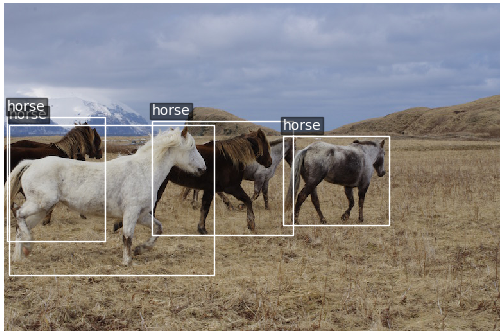
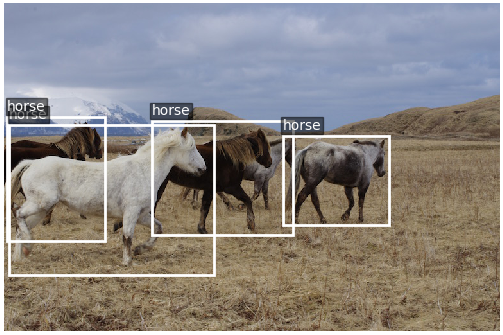
Clean up

Changed region(s): [[0.0, 0.3284, 0.7753, 0.8358]]

diff --git a/models.py b/models.py
@@ -11,23 +11,77 @@ from PIL import Image
 from utils import *
 
 def parse_config(path):
-    """Parses the yolo-v3 layer configuration file and returns block definitions"""
+    """Parses the yolo-v3 layer configuration file and returns module definitions"""
     file = open(path, 'r')
     lines = file.read().split('\n')
     lines = [x for x in lines if x and not x.startswith('#')]
     lines = [x.rstrip().lstrip() for x in lines] # get rid of fringe whitespaces
-    blocks = []
+    module_defs = []
     for line in lines:
         if line.startswith('['):        # This marks the start of a new block
-            blocks.append({})           # re-init the block
-            blocks[-1]['type'] = line[1:-1].rstrip()
-            if blocks[-1]['type'] == 'convolutional':
-                blocks[-1]['batch_normalize'] = 0
+            module_defs.append({})           # re-init the block
+            module_defs[-1]['type'] = line[1:-1].rstrip()
+            if module_defs[-1]['type'] == 'convolutional':
+                module_defs[-1]['batch_normalize'] = 0
         else:
             key, value = line.split("=")
-            blocks[-1][key.rstrip()] = value.lstrip()
+            module_defs[-1][key.rstrip()] = value.lstrip()
 
-    return blocks
+    return module_defs
+
+def create_modules(module_defs):
+    """
+    Constructs module list of layer blocks from module configuration in module_defs
+    """
+    hyperparams = module_defs.pop(0)
+    output_filters = [int(hyperparams['channels'])]
+    module_list = nn.ModuleList()
+    for i, module_def in enumerate(module_defs):
+        modules = nn.Sequential()
+
+        if module_def['type'] == 'convolutional':
+            bn = int(module_def['batch_normalize'])
+            filters = int(module_def['filters'])
+            kernel_size = int(module_def['size'])
+            pad = (kernel_size - 1) // 2 if int(module_def['pad']) else 0
+            modules.add_module('conv_%d' % i, nn.Conv2d(in_channels=output_filters[-1],
+                                                        out_channels=filters,
+                                                        kernel_size=kernel_size,
+                                                        stride=int(module_def['stride']),
+                                                        padding=pad,
+                                                        bias=not bn))
+            if bn:
+                modules.add_module('batch_norm_%d' % i, nn.BatchNorm2d(filters))
+            if module_def['activation'] == 'leaky':
+                modules.add_module('leaky_%d' % i, nn.LeakyReLU(0.1, inplace=True))
+
+        elif module_def['type'] == 'upsample':
+            upsample = nn.Upsample(scale_factor=int(module_def['stride']), mode='bilinear')
+            modules.add_module('upsample_%d' % i, upsample)
+
+        elif module_def['type'] == 'route':
+            layers = [int(x) for x in module_def["layers"].split(',')]
+            filters = sum([output_filters[layer_i] for layer_i in layers])
+            modules.add_module('route_%d' % i, EmptyLayer())
+
+        elif module_def['type'] == 'shortcut':
+            filters = output_filters[int(module_def['from'])]
+            modules.add_module("shortcut_%d" % i, EmptyLayer())
+
+        elif module_def["type"] == "yolo":
+            anchor_idxs = [int(x) for x in module_def["mask"].split(",")]
+            # Extract anchors
+            anchors = [int(x) for x in module_def["anchors"].split(",")]
+            anchors = [(anchors[i], anchors[i+1]) for i in range(0, len(anchors),2)]
+            anchors = [anchors[i] for i in anchor_idxs]
+            # Define detection layer
+            yolo_layer = YOLOLayer(anchors, int(module_def['classes']), int(hyperparams['height']))
+            modules.add_module('yolo_%d' % i, yolo_layer)
+        # Register module list and number of output filters
+        module_list.append(modules)
+        output_filters.append(filters)
+
+    return hyperparams, module_list
 
 class EmptyLayer(nn.Module):
     """Placeholder for 'route' and 'shortcut' layers"""
@@ -44,136 +98,79 @@ class YOLOLayer(nn.Module):
         self.bbox_attrs = 5 + num_classes
         self.image_dim = image_dim
 
-    def forward(self, x, cuda=True):
+    def forward(self, x):
         batch_size = x.size(0)
-        x_dim = x.size(2)
-        stride =  self.image_dim // x_dim
+        grid_dim = x.size(2)
+        stride =  self.image_dim / grid_dim
 
-        prediction = x.view(batch_size, self.bbox_attrs * self.num_anchors, x_dim * x_dim)
+        prediction = x.view(batch_size, self.bbox_attrs * self.num_anchors, grid_dim * grid_dim)
         prediction = prediction.transpose(1, 2).contiguous()
-        prediction = prediction.view(batch_size, x_dim * x_dim * self.num_anchors, self.bbox_attrs)
+        prediction = prediction.view(batch_size, grid_dim * grid_dim * self.num_anchors, self.bbox_attrs)
 
         # Sigmoid
         prediction[:, :, 0] = torch.sigmoid(prediction[:, :, 0])    # Center X
         prediction[:, :, 1] = torch.sigmoid(prediction[:, :, 1])    # Center Y
         prediction[:, :, 4] = torch.sigmoid(prediction[:, :, 4])    # Object conf.
 
-        grid = np.arange(x_dim)
+        grid = np.arange(grid_dim)
         a, b = np.meshgrid(grid, grid)
 
         x_offset = torch.FloatTensor(a).view(-1, 1)
         y_offset = torch.FloatTensor(b).view(-1, 1)
 
-        if cuda:
+        if prediction.is_cuda:
             x_offset = x_offset.cuda()
             y_offset = y_offset.cuda()
 
-        x_y_offset = torch.cat((x_offset, y_offset), 1).repeat(1, self.num_anchors).view(-1, 2).unsqueeze(0)
         # Add offsets to center x and center y
+        x_y_offset = torch.cat((x_offset, y_offset), 1).repeat(1, self.num_anchors).view(-1, 2).unsqueeze(0)
         prediction[:, :, :2] += x_y_offset
 
         anchors = torch.FloatTensor([(a_h / stride, a_w / stride) for a_h, a_w in self.anchors])
-        if cuda:
+
+        if prediction.is_cuda:
             anchors = anchors.cuda()
 
         # Scale width and height by anchors
-        anchors = anchors.repeat(x_dim * x_dim, 1).unsqueeze(0)
+        anchors = anchors.repeat(grid_dim * grid_dim, 1).unsqueeze(0)
         prediction[:, :, 2:4] = torch.exp(prediction[:, :, 2:4]) * anchors
-        # Apply sigmoid to class scores
-        prediction[:, :, 5:self.bbox_attrs] = torch.sigmoid((prediction[:, :, 5:self.bbox_attrs]))
         # Rescale output dimension to image size
         prediction[:, :, :4] *= stride
+        # Apply sigmoid to class scores
+        prediction[:, :, 5:self.bbox_attrs] = torch.sigmoid((prediction[:, :, 5:self.bbox_attrs]))
 
         return prediction
 
-def create_modules(blocks):
-    """
-    Constructs module list of layer blocks from block configuration in 'blocks'
-    """
-    hyperparams = blocks.pop(0)
-    output_filters = [int(hyperparams['channels'])]
-    module_list = nn.ModuleList()
-    for i, block in enumerate(blocks):
-        modules = nn.Sequential()
-
-        if block['type'] == 'convolutional':
-            bn = int(block['batch_normalize'])
-            filters = int(block['filters'])
-            kernel_size = int(block['size'])
-            pad = (kernel_size - 1) // 2 if int(block['pad']) else 0
-            modules.add_module('conv_%d' % i, nn.Conv2d(in_channels=output_filters[-1],
-                                                        out_channels=filters,
-                                                        kernel_size=kernel_size,
-                                                        stride=int(block['stride']),
-                                                        padding=pad,
-                                                        bias=not bn))
-            if bn:
-                modules.add_module('batch_norm_%d' % i, nn.BatchNorm2d(filters))
-            if block['activation'] == 'leaky':
-                modules.add_module('leaky_%d' % i, nn.LeakyReLU(0.1, inplace=True))
-
-        elif block['type'] == 'upsample':
-            upsample = nn.Upsample(scale_factor=int(block['stride']), mode='bilinear')
-            modules.add_module('upsample_%d' % i, upsample)
-
-        elif block['type'] == 'route':
-            layers = [int(x) for x in block["layers"].split(',')]
-            filters = sum([output_filters[layer_i] for layer_i in layers])
-            modules.add_module('route_%d' % i, EmptyLayer())
-
-        elif block['type'] == 'shortcut':
-            filters = output_filters[int(block['from'])]
-            modules.add_module("shortcut_%d" % i, EmptyLayer())
-
-        elif block["type"] == "yolo":
-            mask = [int(x) for x in block["mask"].split(",")]
-            # Extract anchors corresponding to mask indices
-            anchors = [int(x) for x in block["anchors"].split(",")]
-            anchors = [(anchors[i], anchors[i+1]) for i in range(0, len(anchors),2)]
-            anchors = [anchors[i] for i in mask]
-            # Define detection layer
-            yolo_layer = YOLOLayer(anchors, int(block['classes']), int(hyperparams['height']))
-            modules.add_module('yolo_%d' % i, yolo_layer)
-        # Register module list and number of output filters
-        module_list.append(modules)
-        output_filters.append(filters)
-    return hyperparams, module_list
-
 
 class Darknet(nn.Module):
-    """YOLO-V3 object detection model"""
+    """YOLOv3 object detection model"""
     def __init__(self, config_path, img_size=416):
         super(Darknet, self).__init__()
-        self.blocks = parse_config(config_path)
-        self.hyperparams, self.module_list = create_modules(self.blocks)
+        self.module_defs = parse_config(config_path)
+        self.hyperparams, self.module_list = create_modules(self.module_defs)
         self.img_size = img_size
 
-    def forward(self, x, cuda=True):
+    def forward(self, x):
         detections = None
         outputs = []
-        for i, (module_def, module) in enumerate(zip(self.blocks, self.module_list)):
+        for i, (module_def, module) in enumerate(zip(self.module_defs, self.module_list)):
             if module_def['type'] in ['convolutional', 'upsample']:
                 x = module(x)
             elif module_def['type'] == 'route':
                 layer_i = [int(x) for x in module_def['layers'].split(',')]
-                if len(layer_i) == 1:    # Output
-                    x = outputs[layer_i[0]]
-                else:                   # Skip-connection
-                    x = torch.cat((outputs[layer_i[0]], outputs[layer_i[1]]), 1)
+                x = torch.cat([outputs[i] for i in layer_i], 1)
             elif module_def['type'] == 'shortcut':
                 layer_i = int(module_def['from'])
                 x = outputs[-1] + outputs[layer_i]
             elif module_def['type'] == 'yolo':
-                x = module[0](x, cuda)
-                # Add to detections
+                x = module(x)
                 detections = x if detections is None else torch.cat((detections, x), 1)
-
             outputs.append(x)
 
         return detections
 
     def load_weights(self, weights_path):
-        """Parses and copies the weights stored in 'weights_path' to the model"""
+        """Parses and loads the weights stored in 'weights_path'"""
 
         #Open the weights file
         fp = open(weights_path, "rb")
@@ -182,13 +179,13 @@ class Darknet(nn.Module):
         fp.close()
 
         ptr = 0
-        for i, (module_def, module) in enumerate(zip(self.blocks, self.module_list)):
+        for i, (module_def, module) in enumerate(zip(self.module_defs, self.module_list)):
             if module_def['type'] == 'convolutional':
                 conv_layer = module[0]
                 if module_def['batch_normalize']:
+                    # Load BN bias, weights, running mean and running variance
                     bn_layer = module[1]
-                    # Number of biases
-                    num_b = bn_layer.bias.numel()
+                    num_b = bn_layer.bias.numel() # Number of biases
                     # Bias
                     bn_b = torch.from_numpy(weights[ptr:ptr + num_b]).view_as(bn_layer.bias)
                     bn_layer.bias.data.copy_(bn_b)
@@ -206,15 +203,13 @@ class Darknet(nn.Module):
                     bn_layer.running_var.data.copy_(bn_rv)
                     ptr += num_b
                 else:
-                    # Number of biases
+                    # Load conv. bias
                     num_b = conv_layer.bias.numel()
-                    # Conv Bias
                     conv_b = torch.from_numpy(weights[ptr:ptr + num_b]).view_as(conv_layer.bias)
                     conv_layer.bias.data.copy_(conv_b)
-                    ptr = ptr + num_b
-                # Number of weights
+                    ptr += num_b
+                # Load conv. weights
                 num_w = conv_layer.weight.numel()
-                # Conv Weights
-                conv_w = torch.from_numpy(weights[ptr:ptr+num_w]).view_as(conv_layer.weight)
+                conv_w = torch.from_numpy(weights[ptr:ptr + num_w]).view_as(conv_layer.weight)
                 conv_layer.weight.data.copy_(conv_w)
-                ptr = ptr + num_w
+                ptr += num_w

diff --git a/utils.py b/utils.py
@@ -27,10 +27,11 @@ def bbox_iou(box1, box2):
     inter_rect_x2 =  torch.min(b1_x2, b2_x2)
     inter_rect_y2 =  torch.min(b1_y2, b2_y2)
     # Intersection area
-    inter_area = torch.clamp(inter_rect_x2 - inter_rect_x1 + 1, min=0) * torch.clamp(inter_rect_y2 - inter_rect_y1 + 1, min=0)
+    inter_area =    torch.clamp(inter_rect_x2 - inter_rect_x1 + 1, min=0) * \
+                    torch.clamp(inter_rect_y2 - inter_rect_y1 + 1, min=0)
     # Union Area
-    b1_area = (b1_x2 - b1_x1 + 1)*(b1_y2 - b1_y1 + 1)
-    b2_area = (b2_x2 - b2_x1 + 1)*(b2_y2 - b2_y1 + 1)
+    b1_area = (b1_x2 - b1_x1 + 1) * (b1_y2 - b1_y1 + 1)
+    b2_area = (b2_x2 - b2_x1 + 1) * (b2_y2 - b2_y1 + 1)
 
     iou = inter_area / (b1_area + b2_area - inter_area)
 
@@ -61,36 +62,30 @@ def non_max_suppression(prediction, num_classes, conf_thres=0.5, nms_thres=0.4):
         # Filter out confidence scores below threshold
         conf_mask = (image_pred[:, 4] >= conf_thres).squeeze()
         image_pred = image_pred[conf_mask]
-
         # If none are remaining => process next image
         if not image_pred.size(0):
             continue
-
         # Get score and class with highest confidence
         class_conf, class_pred = torch.max(image_pred[:, 5:5 + num_classes], 1,  keepdim=True)
         # Detections ordered as (x1, y1, x2, y2, obj_conf, class_conf, class_pred)
         detections = torch.cat((image_pred[:, :5], class_conf.float(), class_pred.float()), 1)
-        #Get the various classes detected in the image
-        unique_classes = torch.from_numpy(np.unique(detections[:, -1].data.cpu().numpy()))
-        for c in unique_classes:
-            #get the detections with one particular class
-            cls_mask = (detections[:, -1] == c)
-            detections_class = detections[cls_mask]
-            # sort the detections such that the entry with the maximum objectness
-            # confidence is at the top
+        # Iterate through all predicted classes
+        for c in detections[:, -1].unique():
+            # Get the detections with the particular class
+            detections_class = detections[detections[:, -1] == c]
+            # Sort the detections by maximum objectness confidence
             _, conf_sort_index = torch.sort(detections_class[:, 4], descending=True)
             detections_class = detections_class[conf_sort_index]
-
+            # Perform non-maximum suppression
             max_detections = []
             while detections_class.size(0):
                 # Get detection with highest confidence and save as max detection
-                max_detection = detections_class[0].unsqueeze(0)
-                max_detections.append(max_detection)
-                # If we're at the last detection stop
+                max_detections.append(detections_class[0].unsqueeze(0))
+                # Stop if we're at the last detection
                 if len(detections_class) == 1:
                     break
                 # Get the IOUs for all boxes with lower confidence
-                ious = bbox_iou(max_detection, detections_class[1:])
+                ious = bbox_iou(max_detections[-1], detections_class[1:])
                 # Remove detections with IoU >= NMS threshold
                 detections_class = detections_class[1:][ious < nms_thres]
 

diff --git a/test.py b/test.py
@@ -36,6 +36,7 @@ cuda = torch.cuda.is_available()
 # Set up model
 model = Darknet(opt.config_path, img_size=opt.img_size)
 model.load_weights(opt.weights_path)
+
 if cuda:
     model.cuda()
 
@@ -56,7 +57,7 @@ for batch_i, (img_paths, input_imgs) in enumerate(dataloader):
     input_imgs = Variable(input_imgs.type(Tensor))
 
     # Get detections
-    detections = model(input_imgs, cuda)
+    detections = model(input_imgs)
     detections = non_max_suppression(detections, 80, opt.conf_thres, opt.nms_thres)
 
     # Log progress
@@ -97,8 +98,9 @@ for batch_i, (img_paths, input_imgs) in enumerate(dataloader):
                 print ('\timage: %d' % i.item(), 'conf: %.5f' % cls_conf.item(), 'label: %s' % classes[int(cls_pred)])
 
                 # Create a Rectangle patch
-                bbox = patches.Rectangle((x1, y1), box_w, box_h, linewidth=1,
-                                        edgecolor='white', facecolor='none')
+                bbox = patches.Rectangle((x1, y1), box_w, box_h, linewidth=2,
+                                        edgecolor='white',
+                                        facecolor='none')
                 # Add the bbox to the plot
                 ax.add_patch(bbox)
                 # Add label
